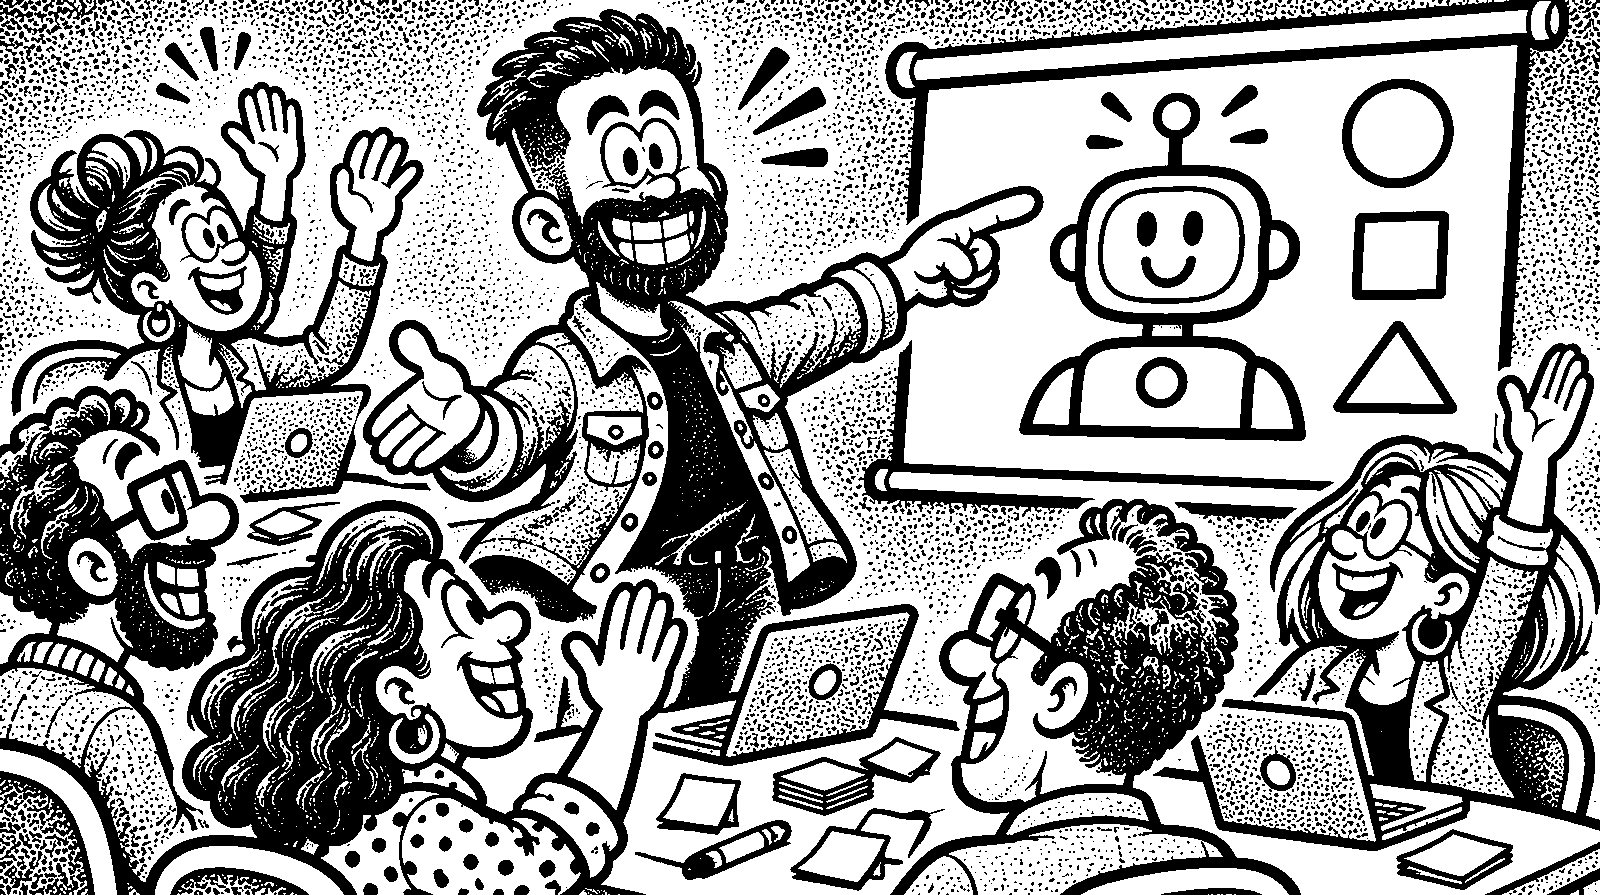
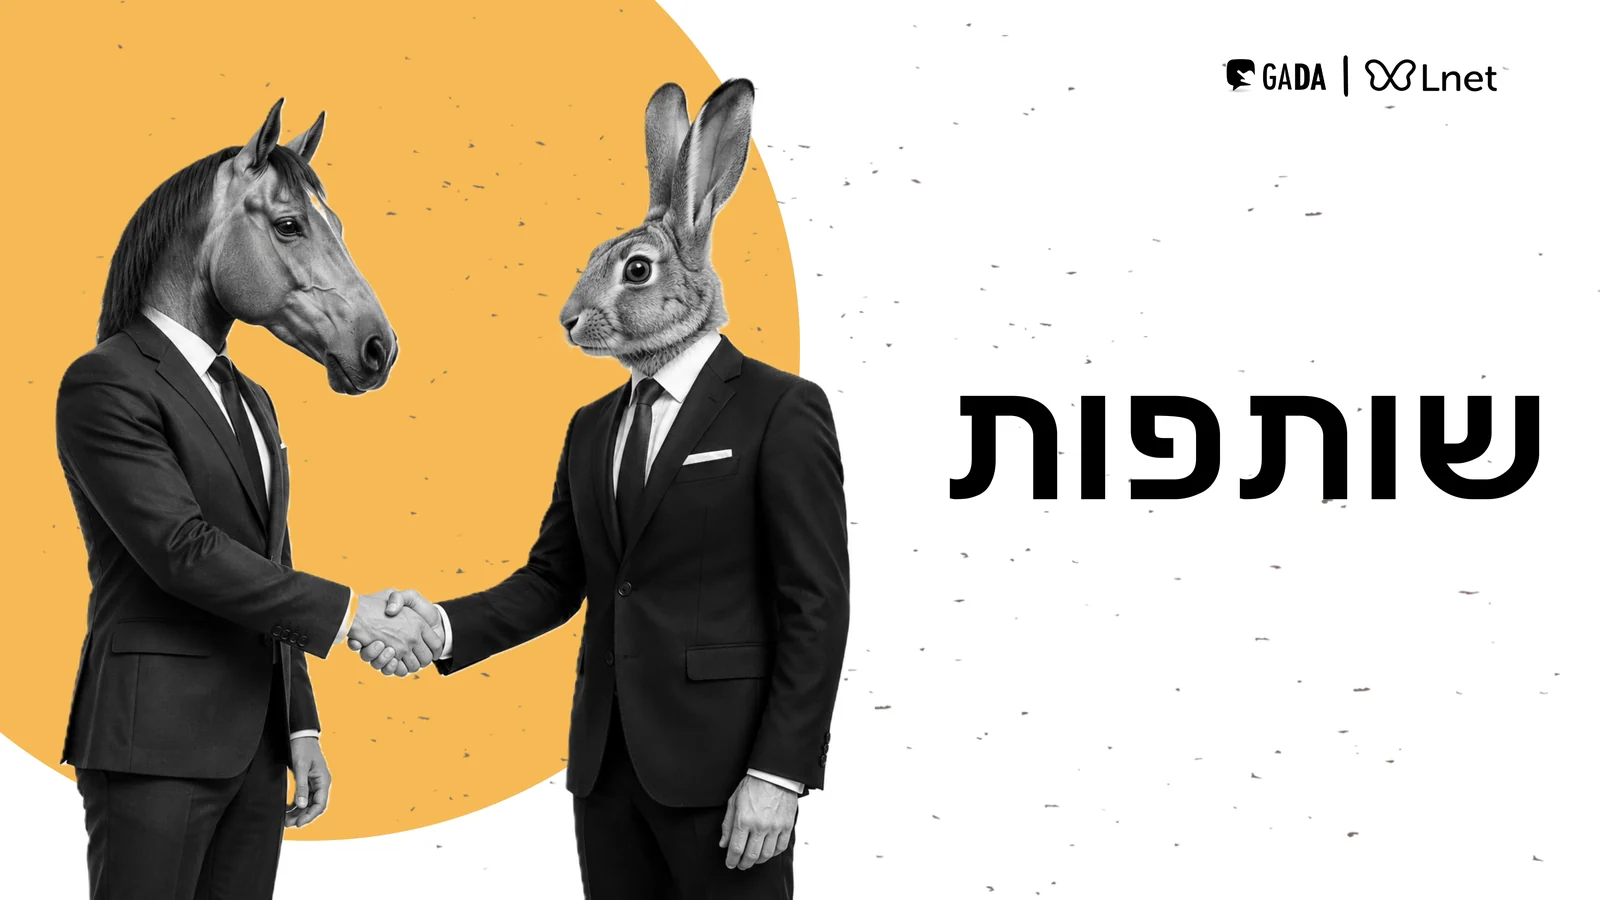
Workshops card: a slide from the course as the main image, shorter title
Claude-Session: https://claude.ai/code/session_01HEA22UsmFgBfRumjDXK7Ag

diff --git a/index.html b/index.html
@@ -7,8 +7,8 @@
   <meta name="description" content="תיק העבודות של שחר עזר, מפתח למידה שהופך תהליכי למידה לקונספטים שרוצים להישאר בהם.">
   <meta name="theme-color" content="#ffffff">
   <link rel="preload" href="assets/fonts/Poalim-Bold.otf" as="font" type="font/otf" crossorigin>
-  <link rel="stylesheet" href="assets/css/site.css?v=10">
-  <link rel="stylesheet" href="assets/css/intro.css?v=10">
+  <link rel="stylesheet" href="assets/css/site.css?v=11">
+  <link rel="stylesheet" href="assets/css/intro.css?v=11">
 </head>
 <body>
   <a class="skip-link" href="#main">דילוג לתוכן</a>
@@ -118,8 +118,8 @@
 
 
 
-  <script src="assets/js/config.js?v=10"></script>
-  <script src="assets/js/intro.js?v=10"></script>
-  <script src="assets/js/site.js?v=10"></script>
+  <script src="assets/js/config.js?v=11"></script>
+  <script src="assets/js/intro.js?v=11"></script>
+  <script src="assets/js/site.js?v=11"></script>
 </body>
 </html>

diff --git a/assets/js/config.js b/assets/js/config.js
@@ -29,9 +29,9 @@ window.PROJECTS = [
     url: ""
   },
   {
-    title: "משרד החינוך - מערך סדנאות \"כלים שלובים\"",
+    title: "מערך סדנאות \"כלים שלובים\"",
     text: "כחלק מפיתוח השתלמות למורים במשרד החינוך בנושאי AI, פיצחתי, כתבתי והפקתי מערך סדנאות וסביבת למידה נלווית. ביצעתי את המחקר, אישרתי ותיקפתי מול הלקוחות, פיצחתי מתודות למידה, פעילויות ומטלות, והפקתי את כל סביבת הלימוד הנלווית ותוצריה.",
-    images: ["assets/img/projects/kelim-1.webp", "assets/img/projects/kelim-2.webp", "assets/img/projects/kelim-3.webp", "assets/img/projects/kelim-4.webp"],
+    images: ["assets/img/projects/kelim-1.webp?v=2", "assets/img/projects/kelim-2.webp", "assets/img/projects/kelim-3.webp?v=2", "assets/img/projects/kelim-4.webp"],
     url: ""
   },
   {

diff --git a/about.html b/about.html
@@ -7,7 +7,7 @@
   <meta name="description" content="שחר עזר, מנהל צוות פיתוח למידה ב־Lnet.">
   <meta name="theme-color" content="#ffffff">
   <link rel="preload" href="assets/fonts/Poalim-Bold.otf" as="font" type="font/otf" crossorigin>
-  <link rel="stylesheet" href="assets/css/site.css?v=10">
+  <link rel="stylesheet" href="assets/css/site.css?v=11">
 </head>
 <body>
   <a class="skip-link" href="#main">דילוג לתוכן</a>
@@ -124,7 +124,7 @@
 
 
 
-  <script src="assets/js/config.js?v=10"></script>
-  <script src="assets/js/site.js?v=10"></script>
+  <script src="assets/js/config.js?v=11"></script>
+  <script src="assets/js/site.js?v=11"></script>
 </body>
 </html>

diff --git a/contact.html b/contact.html
@@ -7,7 +7,7 @@
   <meta name="description" content="יצירת קשר עם שחר עזר.">
   <meta name="theme-color" content="#ffffff">
   <link rel="preload" href="assets/fonts/Poalim-Bold.otf" as="font" type="font/otf" crossorigin>
-  <link rel="stylesheet" href="assets/css/site.css?v=10">
+  <link rel="stylesheet" href="assets/css/site.css?v=11">
 </head>
 <body>
   <a class="skip-link" href="#main">דילוג לתוכן</a>
@@ -39,7 +39,7 @@
 
 
 
-  <script src="assets/js/config.js?v=10"></script>
-  <script src="assets/js/site.js?v=10"></script>
+  <script src="assets/js/config.js?v=11"></script>
+  <script src="assets/js/site.js?v=11"></script>
 </body>
 </html>
